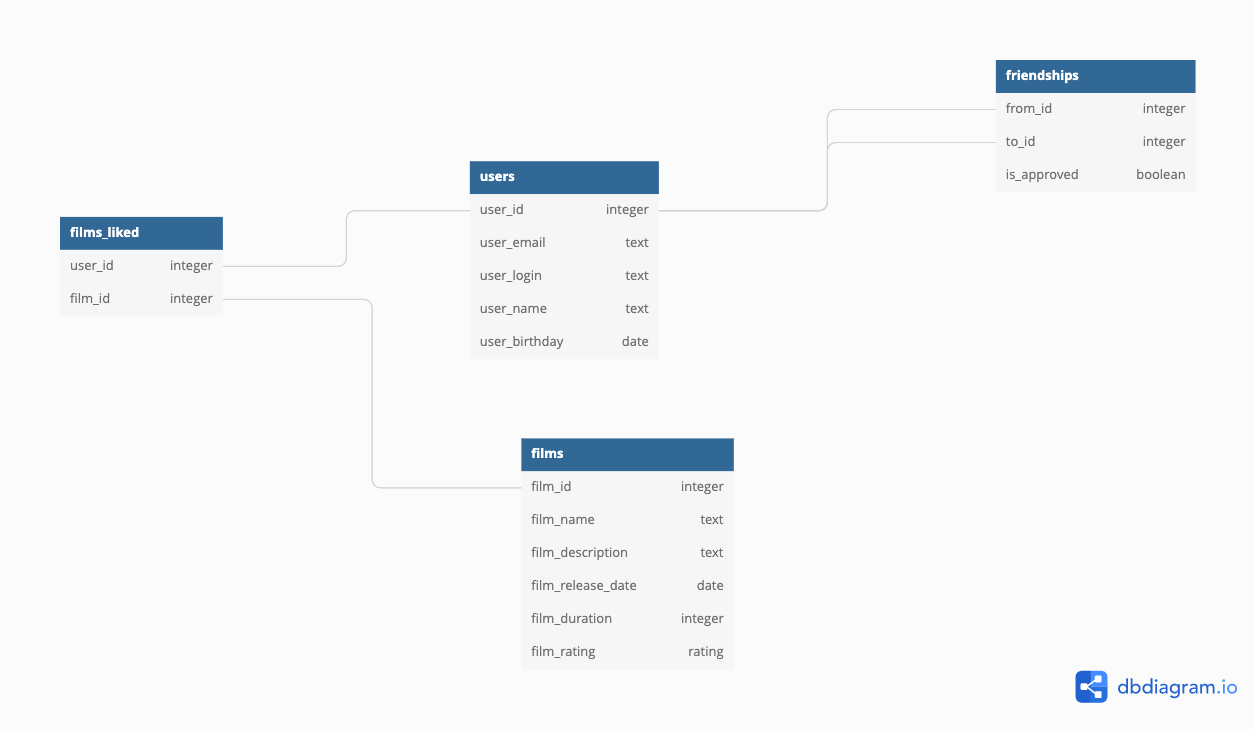
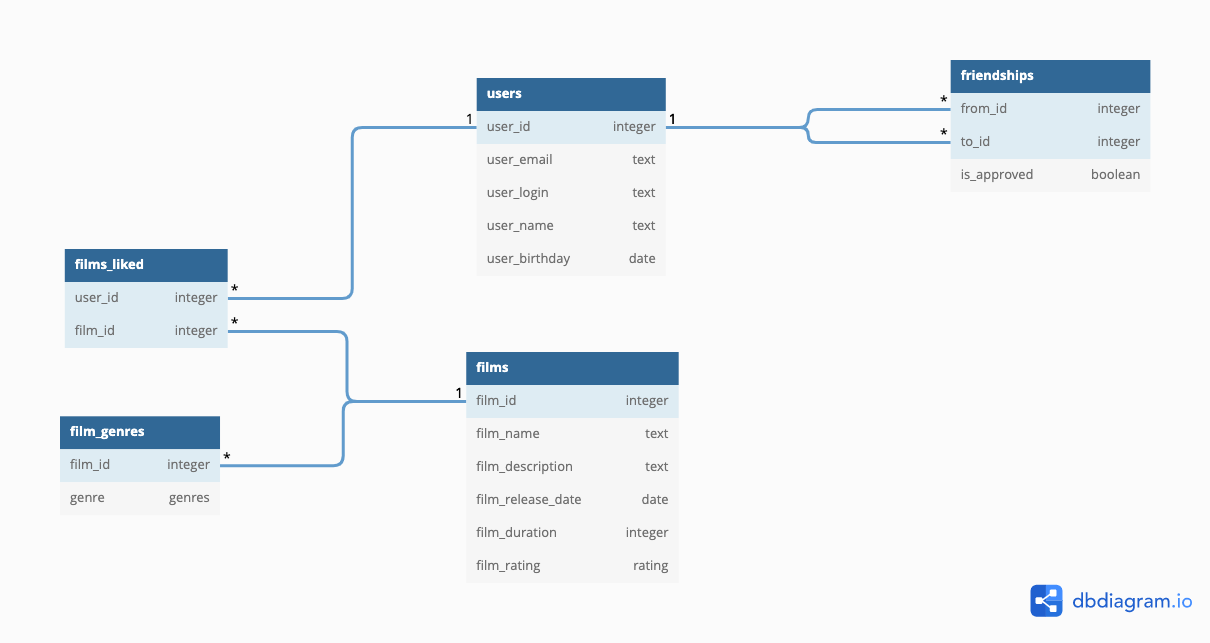
Add basic description
Took 16 minutes

diff --git a/README.md b/README.md
@@ -1,3 +1,11 @@
 # java-filmorate
 ## Схема хранилища
 ![Database scheme](/docs/Java_10_fp.png)
+
+Ссылка: [https://dbdiagram.io/d/62b2df7069be0b672c1b1627](https://dbdiagram.io/d/62b2df7069be0b672c1b1627)
+
+* За хранение фильмов и пользователей отвечают таблицы <code>users</code> и <code>films</code>;
+* Таблица <code>films_liked</code> хранит лайки пользователей по фильмам, ключ составной;
+* Таблица <code>friendships</code> хранит запросы на добавление в друзья между пользователями и их статусы, ключ составной по двум id пользователей;
+* Таблица <code>film_genres</code> содержит информацию о принадлежности фильма к конкретному жанру, ключ составной, жанров у одного фильма может быть несколько;
+* Для обозначения колонок <code>genre</code>, <code>film_rating</code> использованы соответствующие перечисления (enum).
